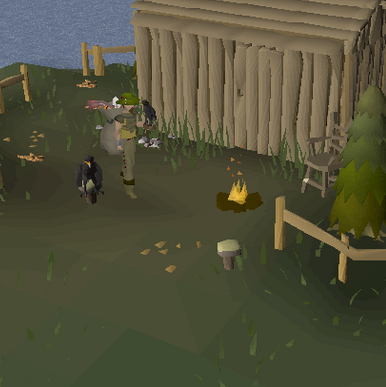
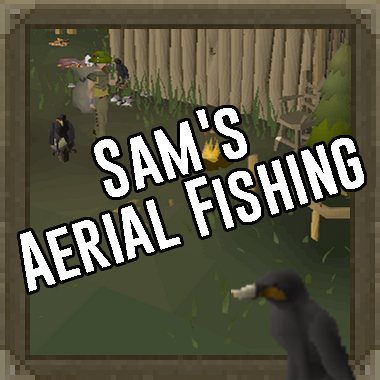
Added some recent work

diff --git a/index.html b/index.html
@@ -76,10 +76,10 @@ http://www.tooplate.com/view/2087-kalay
                <div class="wow fadeInUp col-md-4 col-sm-6" data-wow-delay="0.4s">
                     <!-- WORK THUMB -->
                     <div class="work-thumb">
-                         <a href="images/work-image4.png" class="image-popup">
+                         <a href="images/work-image4.5.png" class="image-popup">
                               <div class="work-thumb-overlay">
-                                   <h4 class="white-color">Java</h4>
-                                   <h2>Sam's Aerial Fishing *In progress*</h2>
+                                   <h4 class="white-color">Java / Photoshop</h4>
+                                   <h2>Sam's Aerial Fishing</h2>
                               </div>
                               <img src="images/work-image4.png" class="img-responsive" alt="Work 1">
                          </a>
@@ -91,13 +91,32 @@ http://www.tooplate.com/view/2087-kalay
                     <div class="work-thumb">
                          <a href="images/work-image1.png" class="image-popup">
                               <div class="work-thumb-overlay">
-                                   <h4 class="white-color">Java</h4>
+                                   <h4 class="white-color">Java / Photoshop</h4>
                                    <h2>Sam's Cannonball Master</h2>
                               </div>
                               <img src="images/work-image1.5.png" class="img-responsive" alt="Work 1">
                          </a>
                     </div>
                </div>
+
+               <div class="wow fadeInUp col-md-4 col-sm-6" data-wow-delay="0.4s">
+                    <!-- WORK THUMB -->
+                    <div class="work-thumb">
+                         <a href="images/work-image5.gif" class="image-popup">
+                              <div class="work-thumb-overlay">
+                                   <h4 class="white-color">Photoshop / Blender</h4>
+                                   <h2>Fourm Logo</h2>
+                              </div>
+                              <img src="images/work-image5.gif" class="fill" alt="Work 2">
+                         </a>
+                    </div>
+               </div>
+
+
+          </div>
+     </div>
+     <div class="container">
+          <div class="row">
 
                <div class="wow fadeInUp col-md-4 col-sm-6" data-wow-delay="0.4s">
                     <!-- WORK THUMB -->
@@ -111,13 +130,6 @@ http://www.tooplate.com/view/2087-kalay
                          </a>
                     </div>
                </div>
-
-
-          </div>
-     </div>
-     <div class="container">
-          <div class="row">
-
                <div class="wow fadeInUp col-md-4 col-sm-6" data-wow-delay="0.4s">
                     <!-- WORK THUMB -->
                     <div class="work-thumb">
@@ -140,19 +152,6 @@ http://www.tooplate.com/view/2087-kalay
                                    <h2>Coming soon</h2>
                               </div>
                               <img src="images/coming-soon.png" class="img-responsive" alt="Work 2">
-                         </a>
-                    </div>
-               </div>
-
-               <div class="wow fadeInUp col-md-4 col-sm-6" data-wow-delay="0.4s">
-                    <!-- WORK THUMB -->
-                    <div class="work-thumb">
-                         <a href="images/coming-soon.png" class="image-popup">
-                              <div class="work-thumb-overlay">
-                                   <h4 class="white-color">Placeholder</h4>
-                                   <h2>Coming soon</h2>
-                              </div>
-                              <img src="images/coming-soon.png" class="img-responsive" alt="Work 3">
                          </a>
                     </div>
                </div>

diff --git a/css/tooplate-style.css b/css/tooplate-style.css
@@ -341,6 +341,11 @@ a:hover, a:active, a:focus {
   opacity: 0.85;
 }
 
+.fill {
+  width: 100%;
+  height: 100%;
+}
+
 
 
 /*---------------------------------------
